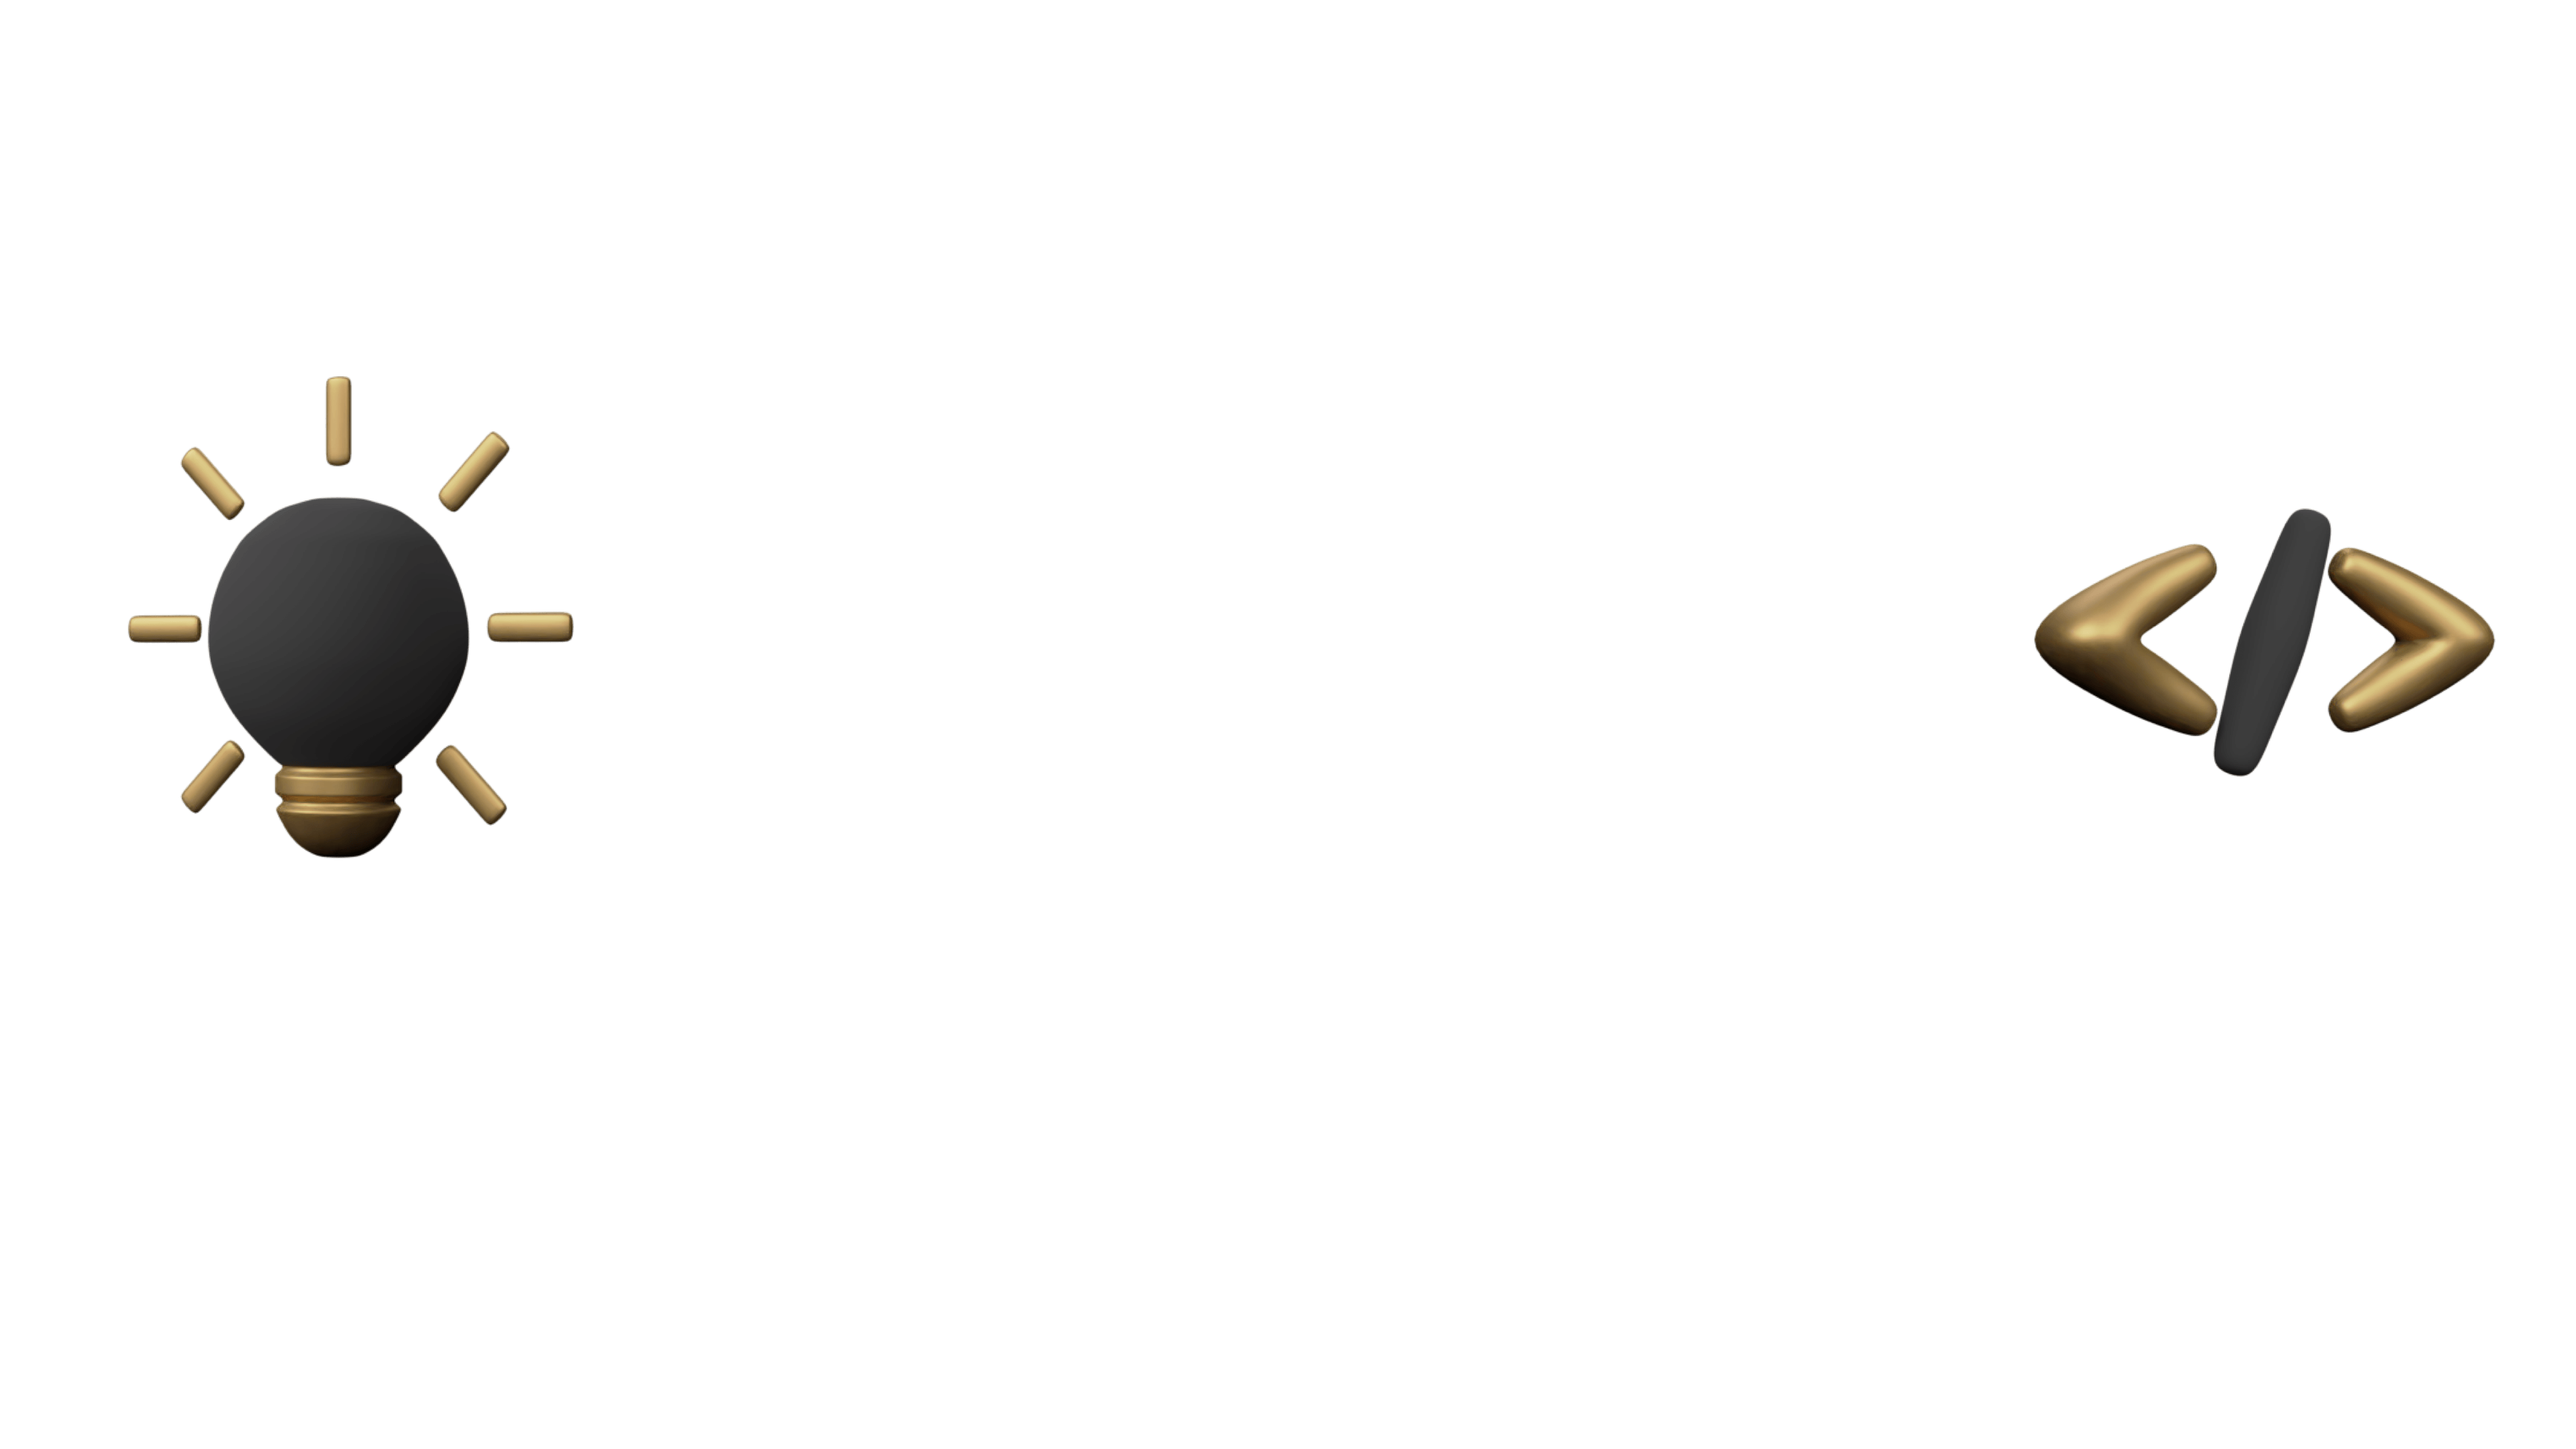
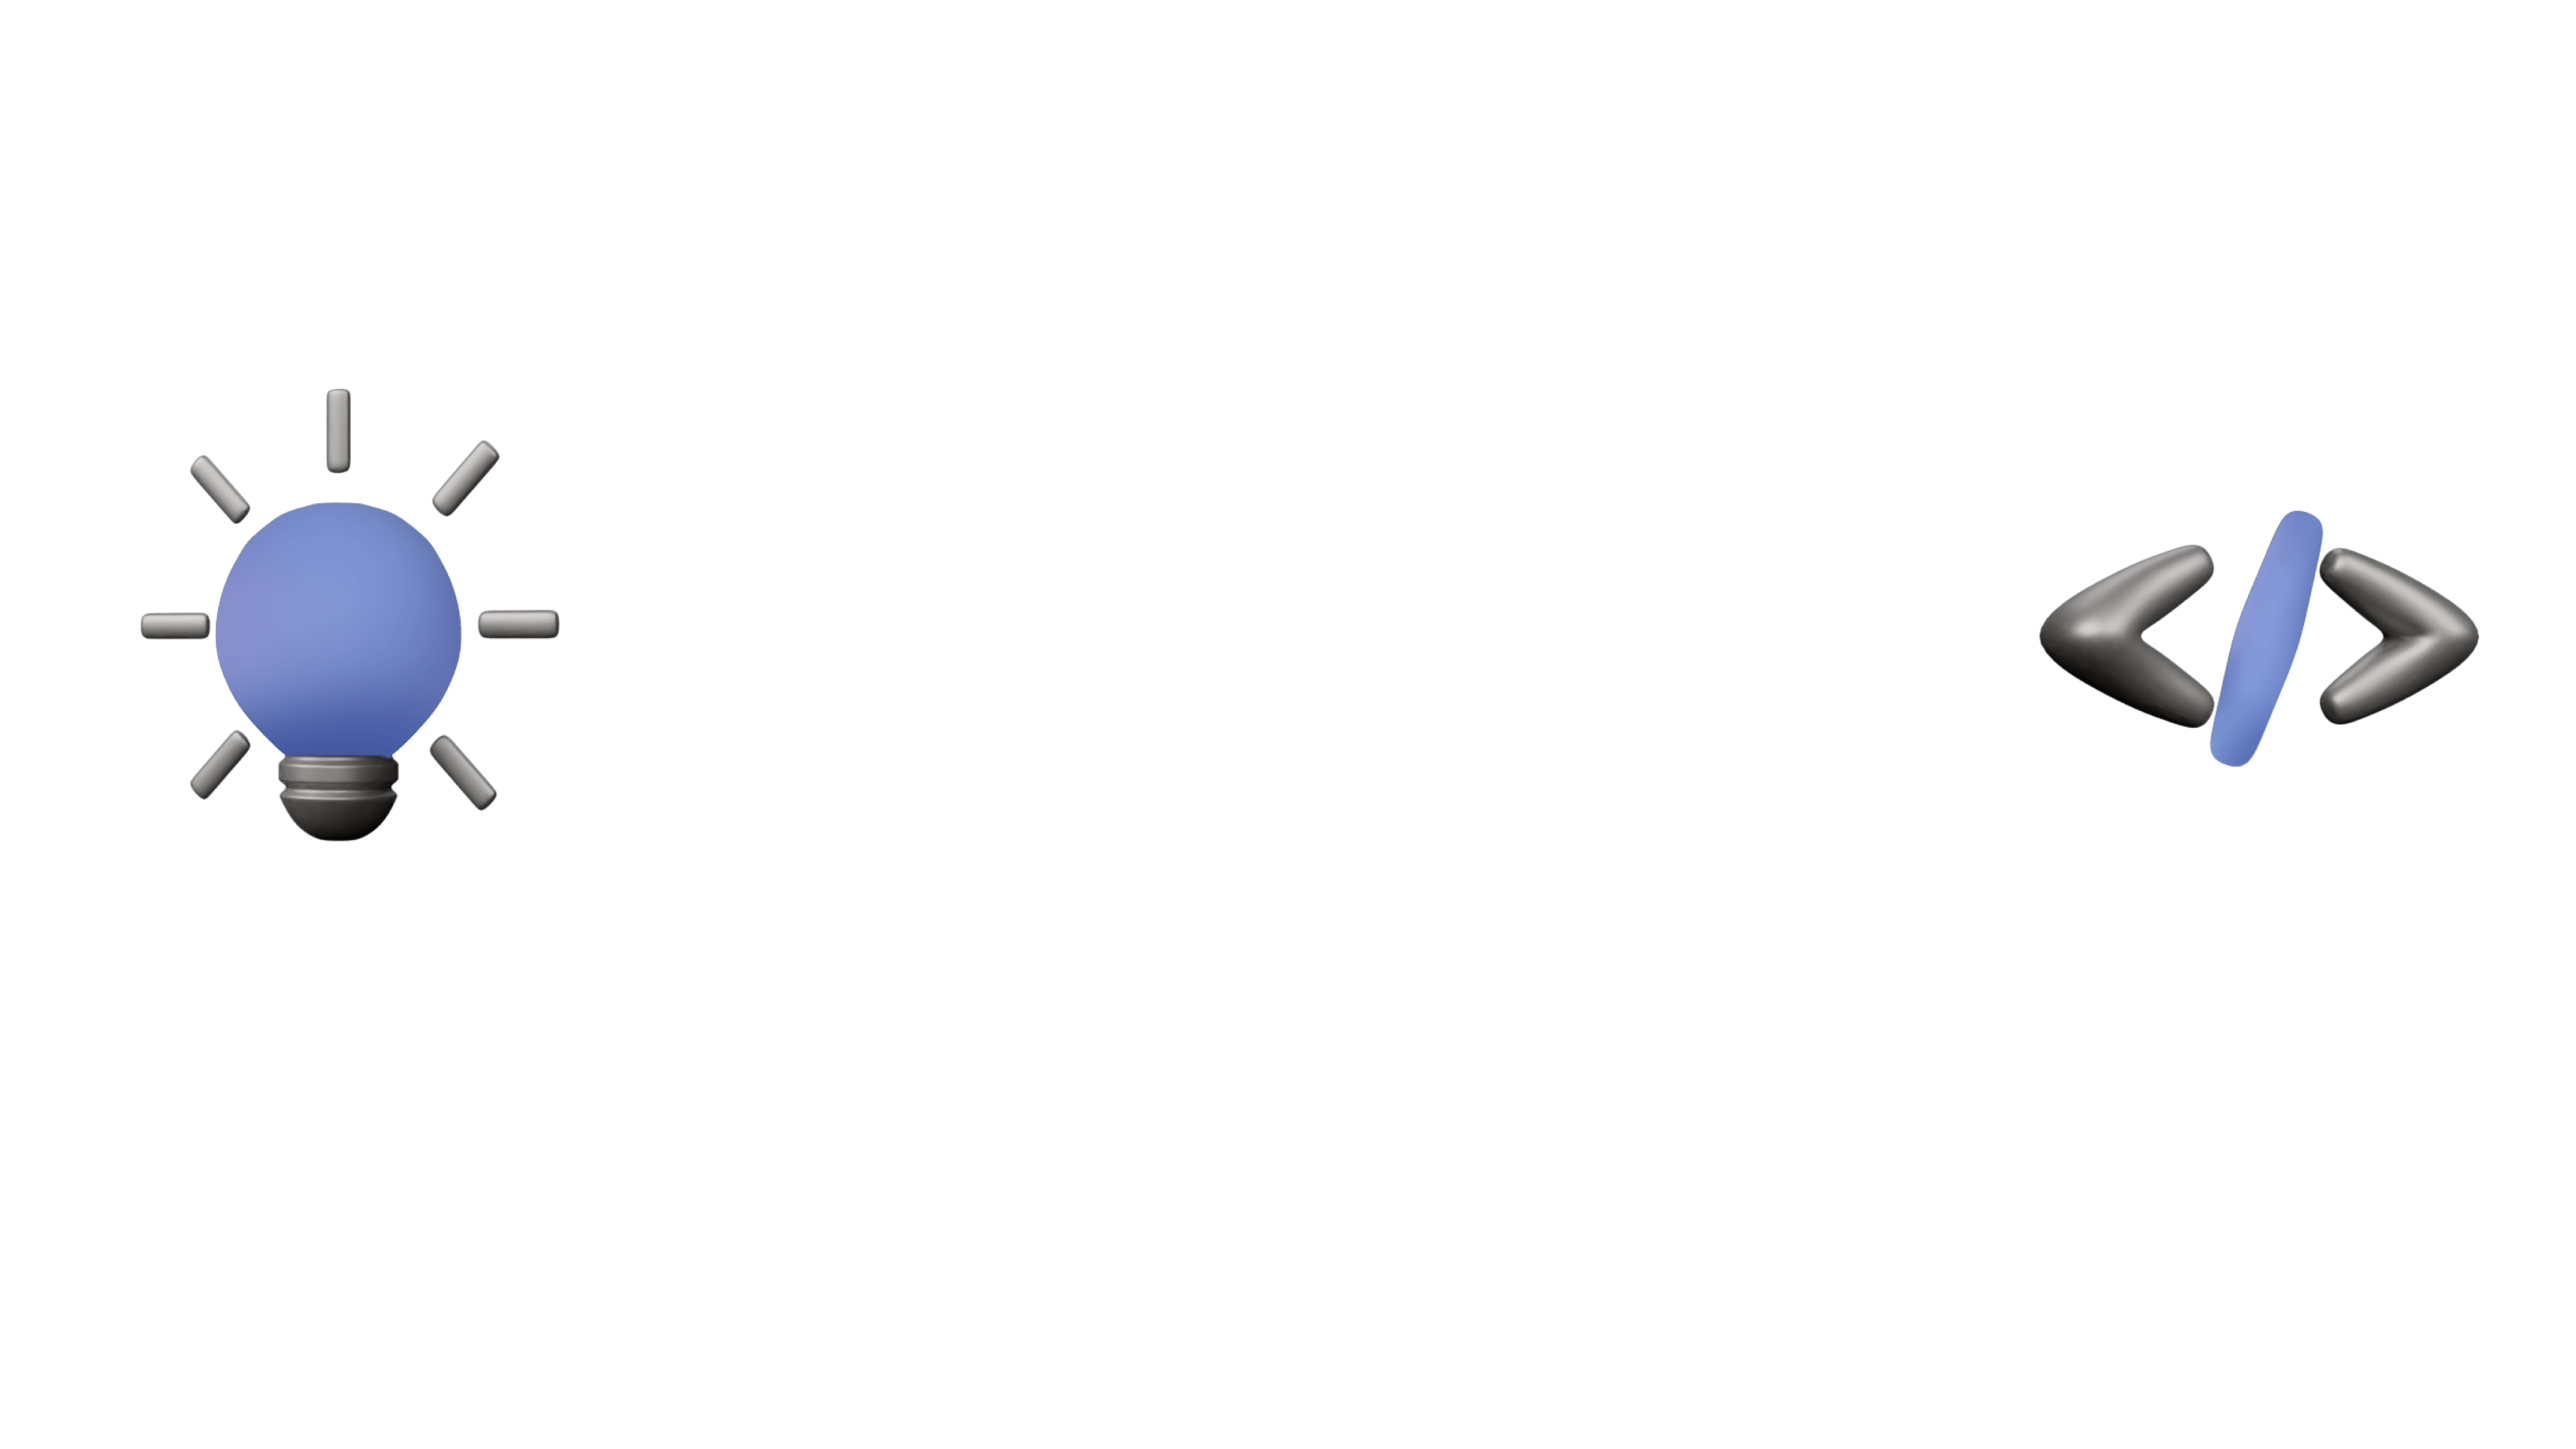
changed hero images

Changed region(s): [[0.0312, 0.2481, 0.2188, 0.5894], [0.7812, 0.3412, 0.9688, 0.5583]]

diff --git a/components/home/Formating.tsx b/components/home/Formating.tsx
@@ -1,7 +1,7 @@
 import type { NextPage } from 'next';
 import { useEffect, useRef } from 'react';
 import cn from 'classnames';
-
+import Image from 'next/image';
 import styles from './Formating.module.css';
 import useAnimation from '../../hooks/useAnimation';
 import snapLottie from '../../assets/lottie/snap.json';
@@ -31,8 +31,8 @@ const Formating: NextPage = () => {
     <div ref={ref} className={cn(styles.formatting, 'wf-section')}>
       <div className={styles.formatting__wrapper}>
       {/* <div className={styles.formatting__lottie}></div> */}
-        <img
-        src="/images/otto.png"
+        <Image
+        src="/images/dart.gif"
         alt=""
         className={styles['about__culture-photo']}
         width="528"

diff --git a/components/home/Hero.tsx b/components/home/Hero.tsx
@@ -47,7 +47,7 @@ const Hero: NextPage = () => {
                 <h1 className={styles['hero__headline-text']}>
                  You think, We create
                 </h1>
-                <img
+                <Image
                   src="/images/hero-hands.png"
                   loading="eager"
                   alt=""

diff --git a/components/common/Nav.tsx b/components/common/Nav.tsx
@@ -71,7 +71,6 @@ const Nav: NextPage = () => {
             </a>
             <a
               href="/contact"
-              aria-current={router.pathname === '/contact' && 'page'}
               className={cn(
                 styles['nav__link-div'],
                 styles['nav__link-div--black'],
